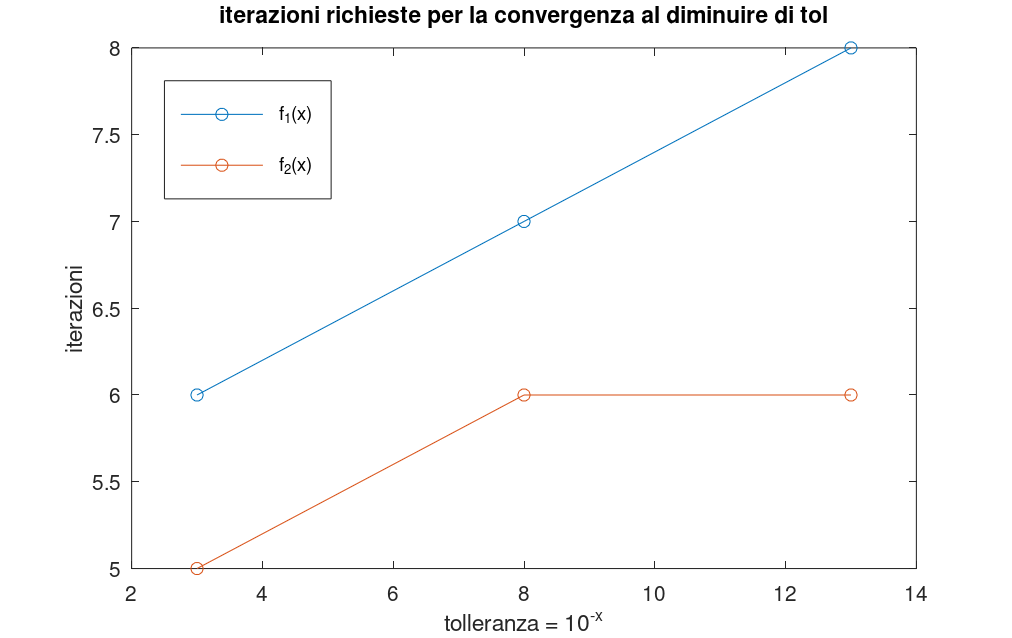
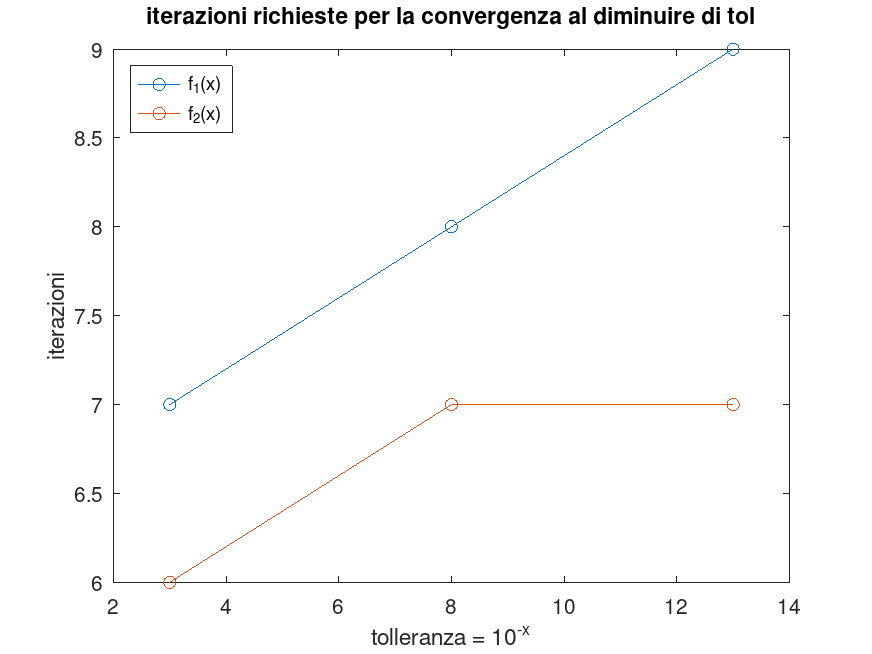
Refactor es15

diff --git a/capitolo3/es15.tex b/capitolo3/es15.tex
@@ -24,28 +24,28 @@ e nella figura \ref{fig:es15}.
             \hline
             Funzione   & \vline & tolleranza$=10^{-3}$  & tolleranza$=10^{-8}$  & tolleranza$=10^{-13}$ \\
             \hline
-            $f_1(x_1)$ & \vline & 1.000119399056337e+00 & 1.000000007127784e+00 & 1.000000000000000e+00 \\
+            $f_1(x_1)$ & \vline & 1.000000007127784e+00 & 1.000000000000000e+00 & 1.000000000000000e+00 \\
             $f_1(x_2)$ & \vline & 2.000000000000000e+00 & 2.000000000000000e+00 & 2.000000000000000e+00 \\
             \hline
-            $f_2(x_1)$ & \vline & 9.999998150012226e-01 & 1.000000000000042e+00 & 1.000000000000042e+00 \\
-            $f_2(x_2)$ & \vline & 9.999997068384456e-01 & 9.999999999999842e-01 & 9.999999999999842e-01 \\
-            $f_2(x_3)$ & \vline & 1.000000239080166e+00 & 9.999999999999871e-01 & 9.999999999999871e-01 \\
+            $f_2(x_1)$ & \vline & 1.000000000000042e+00 & 1.000000000000000e+00 & 1.000000000000000e+00 \\
+            $f_2(x_2)$ & \vline & 9.999999999999842e-01 & 1.000000000000000e+00 & 1.000000000000000e+00 \\
+            $f_2(x_3)$ & \vline & 9.999999999999871e-01 & 1.000000000000000e+00 & 1.000000000000000e+00 \\
             \hline
         \end{tabular}
     }
-    \caption{valori approssimati con i metodi di Newton, secanti e Steffensen}
+    \caption{Soluzioni di sistemi nonlineari usando metodo di Newton}
     \label{tab:15}
 \end{table}
 \FloatBarrier
 \begin{figure}[!ht]
     \centering
     \includegraphics[width=16cm,height=12cm,keepaspectratio]{capitolo3/es15_figure.png}
-    \caption{iterazioni richieste}
+    \caption{Iterazioni richieste per svolgere sistema nonlineare usando metodo di Newton}
     \label{fig:es15}
 \end{figure}
 \FloatBarrier
-Come si vede da risultati ottentui l'accuratezza di funzione di esercizio precedente
-rispetta la tolleranza richiesta, quindi criterio di arresto è stato scielto in modo giusto.
+Come si vede da risultati ottenuti l'accuratezza di funzione di esercizio precedente
+rispetta la tolleranza richiesta, quindi criterio di arresto è stato scelto in modo giusto.
 
-Parlando di iterazioni richeiste, si vede, che in funzione con più esponenziali, cioè prima
+Parlando di iterazioni richieste, si vede, che in funzione con più esponenziali, cioè $f_{1}$
 sono richiesti più iterazioni dato la più alta complessità dei calcoli.

diff --git a/matlab/capitolo3/es15.m b/matlab/capitolo3/es15.m
@@ -3,17 +3,26 @@ syms x1 x2 x3;
 x = zeros(6, 3);
 y = zeros(3, 2);
 
-fn1 = @(x1, x2) [(x1^2 + 1) * (x2 - 2); exp(x1 - 1) + exp(x2 - 2) - 2];
-fn2 = @(x1, x2, x3) [x1 - x2 * x3; exp(x1 + x2 + x3 - 3) - x2; x1 + x2 + 2 * x3 - 4];
+fn1 = @(x1, x2) [
+    (x1.^2 + 1) * (x2 - 2);
+    exp(x1 - 1) + exp(x2 - 2) - 2
+    ];
+fn2 = @(x1, x2, x3) [
+    x1 - x2 * x3;
+    exp(x1 + x2 + x3 - 3) - x2;
+    x1 + x2 + 2 * x3 - 4
+    ];
 
 for i = 3:5:13
     n = (i - 3) / 5 + 1;
-    [x(n, 1:2), y(n, 1)] = newton(fn1, matlabFunction(jacobian(sym(fn1))), zeros(1, 2), 10^(-i));
-    [x(n + 3, 1:3), y(n, 2)] = newton(fn2, matlabFunction(jacobian(sym(fn2))), zeros(1, 3), 10^(-i));
+    jacobian_x = matlabFunction(jacobian(sym(fn1)));
+    [x(n, 1:2), y(n, 1)] = newton(fn1, jacobian_x, zeros(1, 2), 10^(-i));
+    jacobian_x = matlabFunction(jacobian(sym(fn2)));
+    [x(n + 3, 1:3), y(n, 2)] = newton(fn2, jacobian_x, zeros(1, 3), 10^(-i));
 end
 
-disp(x)
-figure
+disp(x');
+figure();
 plot([3, 8, 13], y, 'o-');
 title('iterazioni richieste per la convergenza al diminuire di tol');
 xlabel('tolleranza = 10^{-x}');

diff --git a/README.md b/README.md
@@ -32,7 +32,7 @@ esercizi per elaborato calcolo numerico
    5. Exercise 12 - ✅
    6. Exercise 13 - ✅
    7. Exercise 14 - ✅
-   8. Exercise 15 - ✅⚠
+   8. Exercise 15 - ✅
 
 4. **Chapter 4**
 
